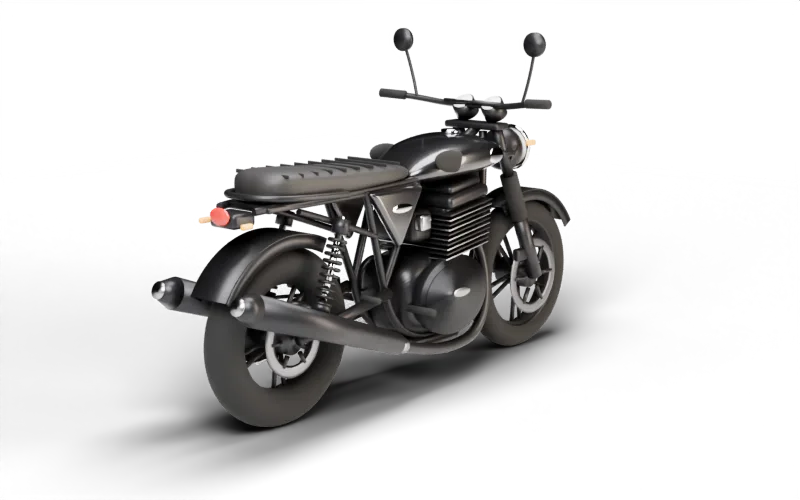
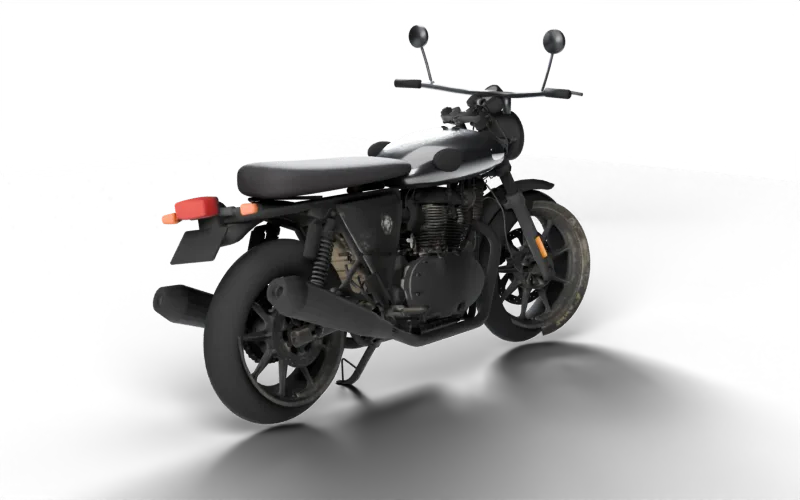
Render the Interceptor from a converted GT 650 model
Swapped the GT's clip-ons, café seat, tank and knobbly tyres for an
Interceptor tank, bench seat, braced roadster bar with round mirrors and
road tyres, then re-rendered the hero rider sprite and the 24-frame
turntable. The converted .blend stays local (gitignored); the render
script is committed. Hero headlamp beam moved to the new lamp position.

diff --git a/index.html b/index.html
@@ -103,8 +103,8 @@
         <path class="r3" d="M-40,345.8 C-36.0,345.9 -24.0,346.1 -16,346.2 C-8.0,346.3 0.0,346.5 8,346.7 C16.0,346.9 24.0,347.1 32,347.4 C40.0,347.6 48.0,347.9 56,348.1 C64.0,348.4 72.0,348.7 80,349.0 C88.0,349.3 96.0,349.6 104,349.9 C112.0,350.2 120.0,350.5 128,350.9 C136.0,351.2 144.0,351.5 152,351.8 C160.0,352.1 168.0,352.5 176,352.8 C184.0,353.1 192.0,353.4 200,353.7 C208.0,354.0 216.0,354.3 224,354.5 C232.0,354.8 240.0,355.1 248,355.3 C256.0,355.6 264.0,355.8 272,356.0 C280.0,356.2 288.0,356.4 296,356.6 C304.0,356.7 312.0,356.9 320,357.0 C328.0,357.1 336.0,357.2 344,357.3 C352.0,357.4 360.0,357.5 368,357.5 C376.0,357.6 384.0,357.6 392,357.6 C400.0,357.6 408.0,357.6 416,357.5 C424.0,357.5 432.0,357.4 440,357.3 C448.0,357.3 456.0,357.2 464,357.0 C472.0,356.9 480.0,356.8 488,356.6 C496.0,356.5 504.0,356.3 512,356.2 C520.0,356.0 528.0,355.8 536,355.6 C544.0,355.5 552.0,355.3 560,355.1 C568.0,354.9 576.0,354.7 584,354.5 C592.0,354.3 600.0,354.1 608,353.9 C616.0,353.7 624.0,353.5 632,353.4 C640.0,353.2 648.0,353.0 656,352.9 C664.0,352.7 672.0,352.6 680,352.5 C688.0,352.4 696.0,352.3 704,352.2 C712.0,352.1 720.0,352.1 728,352.0 C736.0,352.0 744.0,352.0 752,352.0 C760.0,352.0 768.0,352.1 776,352.1 C784.0,352.2 792.0,352.3 800,352.5 C808.0,352.6 816.0,352.8 824,353.0 C832.0,353.2 840.0,353.4 848,353.7 C856.0,353.9 864.0,354.2 872,354.6 C880.0,354.9 888.0,355.3 896,355.7 C904.0,356.1 912.0,356.5 920,357.0 C928.0,357.4 936.0,357.9 944,358.5 C952.0,359.0 960.0,359.5 968,360.1 C976.0,360.7 984.0,361.3 992,361.9 C1000.0,362.5 1008.0,363.2 1016,363.9 C1024.0,364.5 1032.0,365.2 1040,365.9 C1048.0,366.7 1056.0,367.4 1064,368.1 C1072.0,368.9 1080.0,369.6 1088,370.4 C1096.0,371.1 1104.0,371.9 1112,372.6 C1120.0,373.4 1128.0,374.2 1136,374.9 C1144.0,375.7 1152.0,376.4 1160,377.2 C1168.0,377.9 1176.0,378.7 1184,379.4 C1192.0,380.1 1200.0,380.9 1208,381.6 C1216.0,382.3 1224.0,382.9 1232,383.6 C1240.0,384.3 1248.0,384.9 1256,385.5 C1264.0,386.1 1272.0,386.7 1280,387.3 C1288.0,387.8 1296.0,388.4 1304,388.9 C1312.0,389.4 1320.0,389.8 1328,390.3 C1336.0,390.7 1344.0,391.1 1352,391.4 C1360.0,391.8 1368.0,392.1 1376,392.4 C1384.0,392.7 1392.0,392.9 1400,393.1 C1408.0,393.3 1416.0,393.5 1424,393.6 C1432.0,393.8 1440.0,393.9 1448,393.9 C1456.0,394.0 1464.0,394.0 1472,394.0 C1480.0,393.9 1488.0,393.9 1496,393.8 C1504.0,393.7 1512.0,393.6 1520,393.4 C1528.0,393.2 1536.0,393.0 1544,392.8 C1552.0,392.6 1560.0,392.4 1568,392.1 C1576.0,391.8 1584.0,391.5 1592,391.2 C1600.0,390.9 1608.0,390.5 1616,390.2 C1624.0,389.8 1636.0,389.2 1640,389.0 L1640,440 L-40,440 Z"/>
         <path id="road" d="M-40,345.8 C-36.0,345.9 -24.0,346.1 -16,346.2 C-8.0,346.3 0.0,346.5 8,346.7 C16.0,346.9 24.0,347.1 32,347.4 C40.0,347.6 48.0,347.9 56,348.1 C64.0,348.4 72.0,348.7 80,349.0 C88.0,349.3 96.0,349.6 104,349.9 C112.0,350.2 120.0,350.5 128,350.9 C136.0,351.2 144.0,351.5 152,351.8 C160.0,352.1 168.0,352.5 176,352.8 C184.0,353.1 192.0,353.4 200,353.7 C208.0,354.0 216.0,354.3 224,354.5 C232.0,354.8 240.0,355.1 248,355.3 C256.0,355.6 264.0,355.8 272,356.0 C280.0,356.2 288.0,356.4 296,356.6 C304.0,356.7 312.0,356.9 320,357.0 C328.0,357.1 336.0,357.2 344,357.3 C352.0,357.4 360.0,357.5 368,357.5 C376.0,357.6 384.0,357.6 392,357.6 C400.0,357.6 408.0,357.6 416,357.5 C424.0,357.5 432.0,357.4 440,357.3 C448.0,357.3 456.0,357.2 464,357.0 C472.0,356.9 480.0,356.8 488,356.6 C496.0,356.5 504.0,356.3 512,356.2 C520.0,356.0 528.0,355.8 536,355.6 C544.0,355.5 552.0,355.3 560,355.1 C568.0,354.9 576.0,354.7 584,354.5 C592.0,354.3 600.0,354.1 608,353.9 C616.0,353.7 624.0,353.5 632,353.4 C640.0,353.2 648.0,353.0 656,352.9 C664.0,352.7 672.0,352.6 680,352.5 C688.0,352.4 696.0,352.3 704,352.2 C712.0,352.1 720.0,352.1 728,352.0 C736.0,352.0 744.0,352.0 752,352.0 C760.0,352.0 768.0,352.1 776,352.1 C784.0,352.2 792.0,352.3 800,352.5 C808.0,352.6 816.0,352.8 824,353.0 C832.0,353.2 840.0,353.4 848,353.7 C856.0,353.9 864.0,354.2 872,354.6 C880.0,354.9 888.0,355.3 896,355.7 C904.0,356.1 912.0,356.5 920,357.0 C928.0,357.4 936.0,357.9 944,358.5 C952.0,359.0 960.0,359.5 968,360.1 C976.0,360.7 984.0,361.3 992,361.9 C1000.0,362.5 1008.0,363.2 1016,363.9 C1024.0,364.5 1032.0,365.2 1040,365.9 C1048.0,366.7 1056.0,367.4 1064,368.1 C1072.0,368.9 1080.0,369.6 1088,370.4 C1096.0,371.1 1104.0,371.9 1112,372.6 C1120.0,373.4 1128.0,374.2 1136,374.9 C1144.0,375.7 1152.0,376.4 1160,377.2 C1168.0,377.9 1176.0,378.7 1184,379.4 C1192.0,380.1 1200.0,380.9 1208,381.6 C1216.0,382.3 1224.0,382.9 1232,383.6 C1240.0,384.3 1248.0,384.9 1256,385.5 C1264.0,386.1 1272.0,386.7 1280,387.3 C1288.0,387.8 1296.0,388.4 1304,388.9 C1312.0,389.4 1320.0,389.8 1328,390.3 C1336.0,390.7 1344.0,391.1 1352,391.4 C1360.0,391.8 1368.0,392.1 1376,392.4 C1384.0,392.7 1392.0,392.9 1400,393.1 C1408.0,393.3 1416.0,393.5 1424,393.6 C1432.0,393.8 1440.0,393.9 1448,393.9 C1456.0,394.0 1464.0,394.0 1472,394.0 C1480.0,393.9 1488.0,393.9 1496,393.8 C1504.0,393.7 1512.0,393.6 1520,393.4 C1528.0,393.2 1536.0,393.0 1544,392.8 C1552.0,392.6 1560.0,392.4 1568,392.1 C1576.0,391.8 1584.0,391.5 1592,391.2 C1600.0,390.9 1608.0,390.5 1616,390.2 C1624.0,389.8 1636.0,389.2 1640,389.0" fill="none" stroke="none"/>
         <g id="rider" class="rider" transform="translate(-200 400)">
-          <path class="beam" d="M30.1,-38.4 L212,-80 L212,0 Z" fill="url(#beamg)" filter="url(#beamblur)"/>
-          <circle class="lamp-dot" cx="30.1" cy="-38.4" r="2.6"/>
+          <path class="beam" d="M30.7,-40.9 L212,-82 L212,-2 Z" fill="url(#beamg)" filter="url(#beamblur)"/>
+          <circle class="lamp-dot" cx="30.7" cy="-40.9" r="2.6"/>
           <!-- Blender render of me on the Interceptor 650 (Black Ray): 2.2 m x 1.8 m, ground at y = 0 -->
           <image class="bike" href="assets/interceptor/rider.webp" x="-52.3" y="-81.8" width="100" height="81.8"/>
         </g>

diff --git a/blender/render_gt_assets.py b/blender/render_gt_assets.py
@@ -1,0 +1,48 @@
+# Render the site assets from the converted GT->Interceptor scene (ic_from_gt.blend).
+#   side  <out.webp> <width>        hero sprite with rider, 2.2 m x 1.8 m ortho frame, ground at bottom edge
+#   spin  <outdir>   <frames> [ids] turntable of the bike only, transparent, 800x500 webp
+import bpy, sys, math
+from mathutils import Vector, Matrix
+argv = sys.argv[sys.argv.index('--') + 1:]
+mode = argv[0]; sc = bpy.context.scene
+import addon_utils; addon_utils.enable('cycles', default_set=True)
+sc.render.engine = 'CYCLES'; sc.cycles.device = 'CPU'; sc.cycles.use_denoising = True
+sc.render.film_transparent = True
+sc.render.image_settings.file_format = 'WEBP'; sc.render.image_settings.color_mode = 'RGBA'; sc.render.image_settings.quality = 84
+geo = sc["gt_geo"]; RX = geo["rear"][0]; CX = RX + 0.65
+# shadow catcher under the bike
+bpy.ops.mesh.primitive_plane_add(size=12, location=(CX, 0, 0)); floor = bpy.context.active_object; floor.is_shadow_catcher = True
+rider = bpy.data.collections["IC_rider"]
+bike_objs = [o for o in sc.objects if o.type in ('MESH', 'CURVE') and o.visible_get() and o is not floor and o.name not in rider.objects]
+cam = bpy.data.objects["IC_cam"]; sc.camera = cam
+if mode == 'side':
+    out, w = argv[1], int(argv[2])
+    cam.data.type = 'ORTHO'; cam.data.ortho_scale = 2.2
+    cam.location = (CX, -8, 0.9); cam.rotation_euler = (Vector((CX, 0, 0.9)) - cam.location).to_track_quat('-Z', 'Y').to_euler()
+    sc.render.resolution_x, sc.render.resolution_y = w, round(w * 1.8 / 2.2); sc.cycles.samples = 64
+    sc.render.filepath = out; bpy.ops.render.render(write_still=True)
+elif mode == 'spin':
+    outdir, frames = argv[1], int(argv[2]); ids = [int(a) for a in argv[3].split(',')] if len(argv) > 3 else range(frames)
+    for o in rider.objects: o.hide_render = True
+    # rotate every part's world matrix about the bike's measured centre (no parenting)
+    bpy.context.view_layer.update()
+    lo = Vector((1e9, 1e9, 1e9)); hi = -lo
+    for o in bike_objs:
+        for c in o.bound_box:
+            w = o.matrix_world @ Vector(c); lo = Vector(map(min, lo, w)); hi = Vector(map(max, hi, w))
+    ctr = Vector(((lo.x + hi.x) / 2, (lo.y + hi.y) / 2, 0))
+    base = {o.name: o.matrix_world.copy() for o in bike_objs}
+    # objects parented to other bike objects would be rotated twice; unparent all first
+    for o in bike_objs:
+        mw = base[o.name]; o.parent = None; o.matrix_world = mw
+    def spin_to(a):
+        R = Matrix.Translation(ctr) @ Matrix.Rotation(a, 4, 'Z') @ Matrix.Translation(-ctr)
+        for o in bike_objs: o.matrix_world = R @ base[o.name]
+    CX = ctr.x
+    cam.data.type = 'PERSP'; cam.data.lens = 64
+    cam.location = (CX + 3.4, ctr.y - 4.0, 1.55); cam.rotation_euler = (Vector((CX, ctr.y, 0.52)) - cam.location).to_track_quat('-Z', 'Y').to_euler()
+    sc.render.resolution_x, sc.render.resolution_y = 800, 500; sc.cycles.samples = 40
+    for i in ids:
+        spin_to(2 * math.pi * i / frames)
+        sc.render.filepath = f'{outdir}/spin-{i:02d}.webp'; bpy.ops.render.render(write_still=True)
+print('DONE', mode)

diff --git a/README.md b/README.md
@@ -33,17 +33,19 @@ resume/             resume source (resume.html), local IBM Plex fonts, build scr
 
 ## The Interceptor model
 
-`blender/interceptor.py` builds a Royal Enfield Interceptor 650 in the Black Ray colours and renders it with Cycles. The tank and seat are lofted from cross-sections, and every part's side profile was traced from two CC BY-SA 4.0 photos on Wikimedia Commons by Auge=mit ("Royal Enfield 650 Interceptor A-Seite noBG" and "B-Seite noBG"), scaled to the bike's 1,400 mm wheelbase. The photos were used only as modelling reference and are not published on the site. The `overlay` view renders at the photo's scale (660 px/m, rear axle at 353, 833 in a 1600 px frame) so the model can be checked against it. Blender 5.2 is at `/Applications/Blender.app`. EEVEE renders black in headless sessions here, so the script uses Cycles on the CPU.
+The renders in `assets/interceptor/` (hero rider sprite and the 24-frame turntable) come from a Continental GT 650 model that was converted into an Interceptor in Blender: the GT's clip-on bars, café seat, tank and knobbly tyres were removed and replaced with an Interceptor tank, long bench seat, braced roadster bar with round mirrors, and road tyres. The converted scene is `blender/ic_from_gt.blend`, which is gitignored and never published because the base mesh is third-party.
+
+Re-render from it with:
 
 ```sh
 B=/Applications/Blender.app/Contents/MacOS/Blender
-# hero sprite: side view with the rider, 440 px wide
-$B --background --factory-startup --python blender/interceptor.py -- side assets/interceptor/rider.webp rider 440 WEBP
-# turntable: 24 frames, about 5 minutes
-$B --background --factory-startup --python blender/interceptor.py -- spin assets/interceptor 24 all
+$B --background blender/ic_from_gt.blend --python blender/render_gt_assets.py -- side assets/interceptor/rider.webp 440
+$B --background blender/ic_from_gt.blend --python blender/render_gt_assets.py -- spin assets/interceptor 24
 ```
 
-The hero places `rider.webp` assuming the side render frames exactly 2.2 m × 1.8 m with the ground at the bottom edge; if you change the side camera, update the `<image>` in the hero and the headlight beam coordinates next to it.
+The side render frames exactly 2.2 m × 1.8 m with the ground at the bottom edge, which is what the hero's `<image>` and headlamp beam coordinates assume. EEVEE renders black in headless sessions here, so the script uses Cycles on the CPU.
+
+`blender/interceptor.py` is the earlier model built entirely from primitives (profiles traced from CC BY-SA photos on Wikimedia Commons by Auge=mit). It is kept as a fallback and no longer used for the site assets.
 
 ## Resume PDF
 
